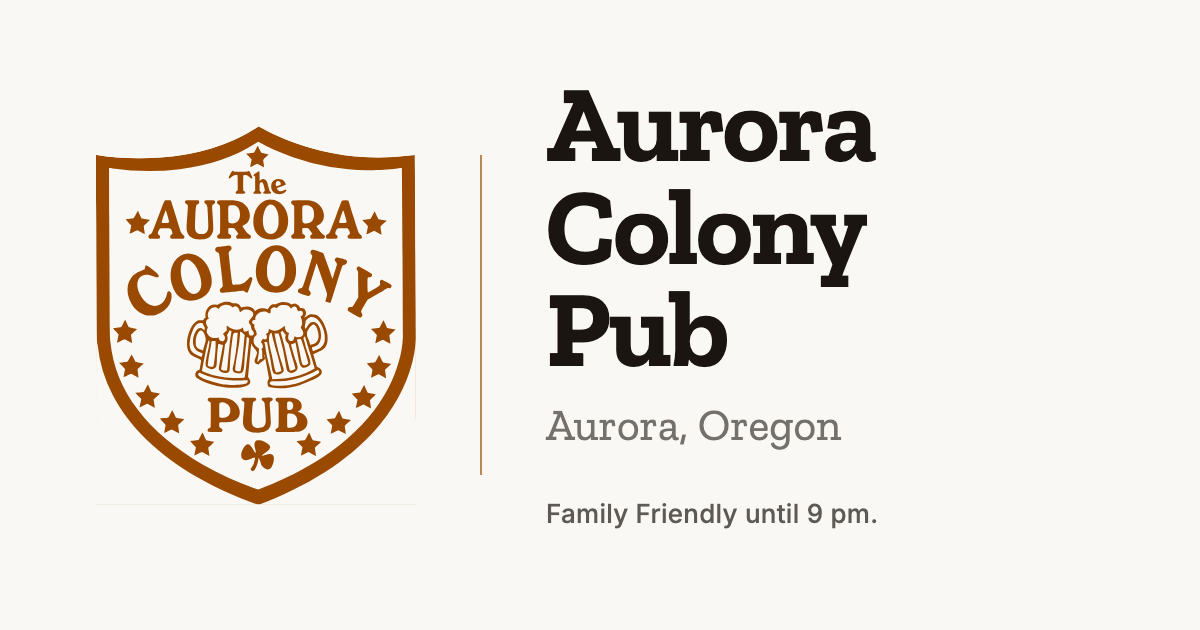
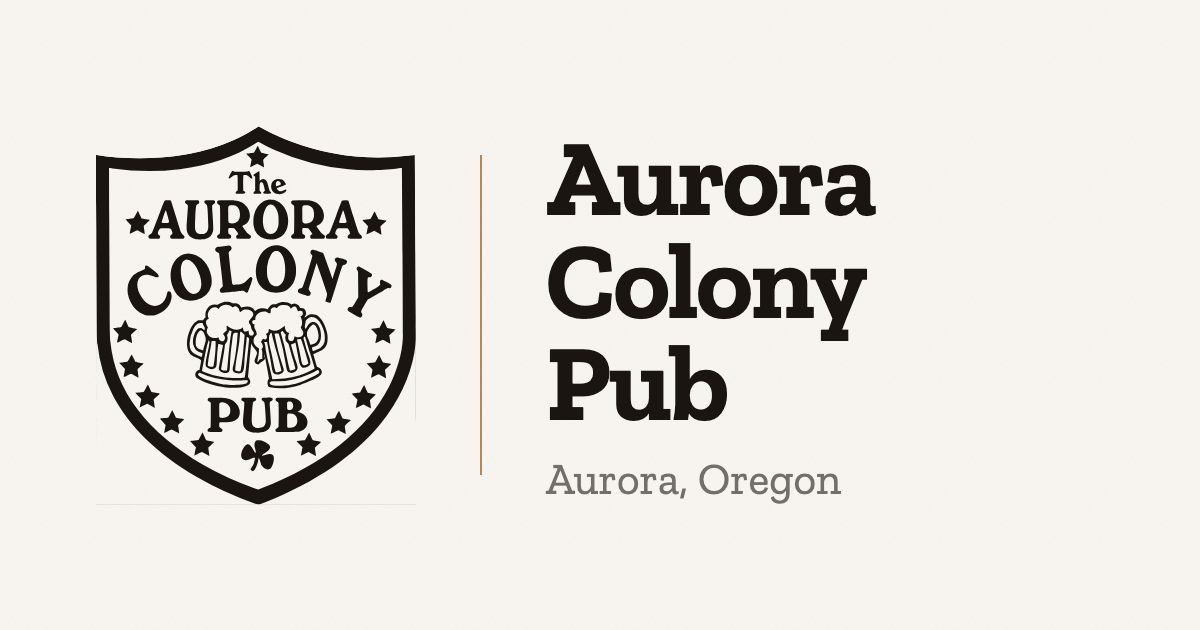
Update OG image

Changed region(s): [[0.4317, 0.1206, 0.74, 0.8444], [0.0617, 0.2111, 0.37, 0.8143]]

diff --git a/scripts/design-tokens.ts b/scripts/design-tokens.ts
@@ -1,0 +1,43 @@
+import { readFileSync } from 'node:fs';
+
+/** Path to the design-token source of truth — colors, fonts, paper-grain. */
+const TOKENS_CSS_PATH = 'site/src/styles/tokens.css';
+
+/**
+ * Reads `tokens.css` and rewrites the Tailwind v4 directives into plain CSS so
+ * the same tokens can drive build-time render targets (OG image, future PDF
+ * exports, …) without bringing the Tailwind toolchain along. `@theme { … }`
+ * becomes `:root { … }`, and `@utility bg-paper { … }` becomes `.bg-paper { … }`.
+ * Consumers inject the returned string with `page.addStyleTag({ content })`.
+ */
+export const readDesignTokensCss = (): string => {
+  const css = readFileSync(TOKENS_CSS_PATH, 'utf8');
+  const theme = extractBlockBody(css, /@theme\s*\{/);
+  const bgPaper = extractBlockBody(css, /@utility\s+bg-paper\s*\{/);
+  return `:root {\n${theme}\n}\n.bg-paper {\n${bgPaper}\n}\n`;
+};
+
+/**
+ * Returns the body of the first CSS at-rule whose opening matches `openRegex`,
+ * walking braces so nested blocks (none today, but cheap insurance) don't trip
+ * the parser the way a non-greedy regex would.
+ *
+ * @param css - Full CSS source to scan
+ * @param openRegex - Regex matching the at-rule's opening (must include the `{`)
+ */
+const extractBlockBody = (css: string, openRegex: RegExp): string => {
+  const open = openRegex.exec(css);
+  if (!open) {
+    throw new Error(`Could not find block matching ${openRegex} in ${TOKENS_CSS_PATH}`);
+  }
+  const start = open.index + open[0].length;
+  let depth = 1;
+  for (let i = start; i < css.length; i += 1) {
+    if (css[i] === '{') depth += 1;
+    else if (css[i] === '}') {
+      depth -= 1;
+      if (depth === 0) return css.slice(start, i).trim();
+    }
+  }
+  throw new Error(`Unterminated block matching ${openRegex} in ${TOKENS_CSS_PATH}`);
+};

diff --git a/scripts/og-image/index.html b/scripts/og-image/index.html
@@ -9,13 +9,20 @@
       href="https://fonts.googleapis.com/css2?family=Inter:wght@400;500;600&family=Zilla+Slab:wght@400;600;700&display=swap"
       rel="stylesheet"
     />
+    <!--
+      Design tokens (--color-*, --font-*, .bg-paper) are injected at render
+      time from site/src/styles/tokens.css by scripts/generate-og-image.ts.
+      tokens.css is the single source of truth.
+
+      The generic font-family vars (--font-zilla-slab, --font-inter) live here
+      next to the <link> that loads them — same split the site uses, where
+      BaseLayout.astro defines these vars via Astro's Font component and
+      tokens.css consumes them through --font-display / --font-body.
+    -->
     <style>
       :root {
-        --color-background: oklch(0.98 0.006 80);
-        --color-foreground: oklch(0.2 0.012 60);
-        --color-primary: oklch(0.5 0.13 55);
-        --font-display: 'Zilla Slab', ui-serif, Georgia, serif;
-        --font-body: 'Inter', ui-sans-serif, system-ui, sans-serif;
+        --font-zilla-slab: 'Zilla Slab', ui-serif, Georgia, serif;
+        --font-inter: 'Inter', ui-sans-serif, system-ui, sans-serif;
       }
 
       *,
@@ -54,7 +61,7 @@
         flex: 0 0 auto;
         width: 320px;
         height: 380px;
-        background-color: var(--color-primary);
+        background-color: var(--color-foreground);
         -webkit-mask: url('../../site/src/assets/logo.svg') center / contain no-repeat;
         mask: url('../../site/src/assets/logo.svg') center / contain no-repeat;
       }
@@ -93,26 +100,15 @@
         margin: 0;
         color: color-mix(in oklab, var(--color-foreground) 60%, transparent);
       }
-
-      .tagline {
-        margin-top: 28px;
-        font-family: var(--font-body);
-        font-weight: 500;
-        font-size: 26px;
-        line-height: 1.3;
-        color: color-mix(in oklab, var(--color-foreground) 70%, transparent);
-        letter-spacing: 0.01em;
-      }
     </style>
   </head>
-  <body>
+  <body class="bg-paper">
     <div class="card">
       <div class="crest" role="img" aria-label="Aurora Colony Pub crest"></div>
       <div class="divider"></div>
       <div class="text">
         <h1 class="wordmark">Aurora Colony<br />Pub</h1>
         <p class="location">Aurora, Oregon</p>
-        <p class="tagline">Family Friendly until 9 pm.</p>
       </div>
     </div>
   </body>

diff --git a/scripts/generate-og-image.ts b/scripts/generate-og-image.ts
@@ -1,6 +1,7 @@
 import { dirname, resolve } from 'node:path';
 import { fileURLToPath, pathToFileURL } from 'node:url';
 import { chromium } from 'playwright';
+import { readDesignTokensCss } from './design-tokens';
 import { PUBLIC_DIR } from './generate-logos-utils';
 
 const scriptDir = dirname(fileURLToPath(import.meta.url));
@@ -38,6 +39,7 @@ const generateOgImage = async (): Promise<void> => {
     await page.goto(pathToFileURL(config.htmlSource).toString(), {
       waitUntil: 'networkidle'
     });
+    await page.addStyleTag({ content: readDesignTokensCss() });
     await page.evaluate(() => document.fonts.ready);
     await page.screenshot({
       path: config.outputPath,